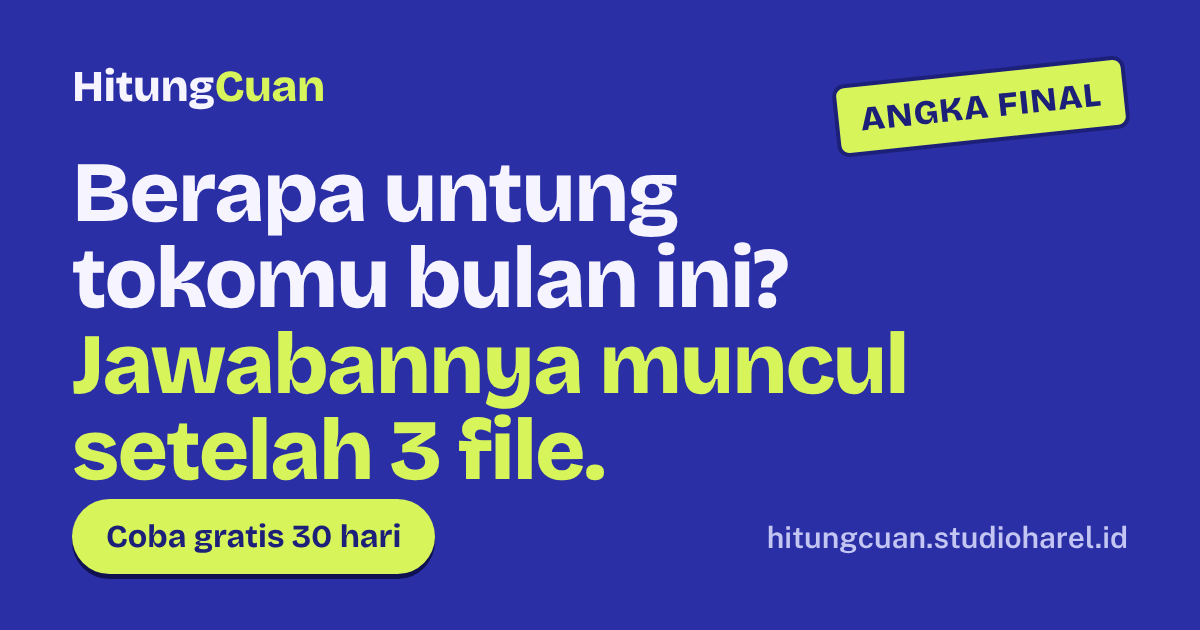
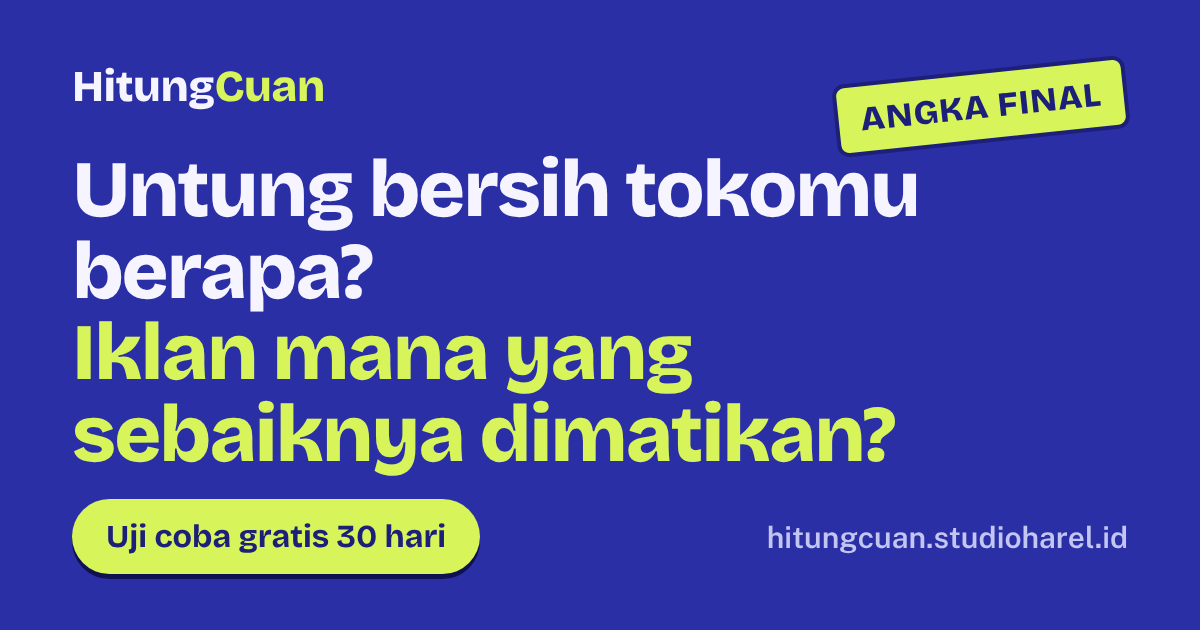
Rewrite landing copy for trial-via-WhatsApp clarity
Hero now states benefit and audience up front, uses a specific
"Minta uji coba gratis lewat WhatsApp" CTA, and explains that accounts are
created manually by an admin who replies within 1x24 hours. Merge
"how it works" and "how to start" into one 4-step flow (chat, account,
download, upload), dedupe the pricing steps, lead pricing with the 30-day
trial, rewrite the closing CTA, WhatsApp starter messages, simulator CTA
label, meta tags and OG image. Privacy micro-line now matches the detailed
claim already on the page. No new claims, stats or guarantees.

Claude-Session: https://claude.ai/code/session_01Tm7fB4RFDTvqmVeSX5iv5R

Changed region(s): [[0.0617, 0.2413, 0.7708, 0.9349]]

diff --git a/src/components/Pricing.tsx b/src/components/Pricing.tsx
@@ -2,54 +2,39 @@ import { PRICE_MONTHLY, PRICE_YEARLY, REPLY_PROMISE, TRIAL_DAYS } from '../confi
 import { rp } from '../lib/format'
 import { CheckIcon, Cta, H2, Section } from './ui'
 
-const STEPS = [
-  { t: 'Chat WhatsApp', d: 'Ceritakan tokomu dan tanya apa saja.' },
-  { t: 'Akun dibuatkan', d: 'Admin membuat akunmu secara manual. Belum ada daftar mandiri.' },
-  { t: 'Upload bulan pertama', d: 'Ikuti panduan di aplikasi, lalu baca hasilnya.' },
-]
-
 const INCLUDED = [
-  `Coba gratis ${TRIAL_DAYS} hari, tanpa kartu kredit`,
-  'Untuk 1 toko Shopee',
-  'Update kalau format file Shopee berubah',
-  'Data tiap toko terpisah',
+  'Untuk 1 toko Shopee. Punya lebih dari satu toko? Tanyakan ke admin.',
+  'Pembaruan kalau format file Shopee berubah sudah termasuk.',
+  'Data tiap toko terpisah.',
 ]
 
+/*
+ * TODO (isi sebelum tayang): satu kalimat tentang akhir uji coba, mis. apakah ditagih atau akun
+ * diminta diperpanjang lewat admin. Sengaja tidak ditulis di sini karena belum ada keputusannya.
+ */
 export function Pricing() {
   const saving = PRICE_MONTHLY * 12 - PRICE_YEARLY
   return (
     <Section tone="deep" id="harga" labelledby="harga-judul">
-      <H2 id="harga-judul">Harga dan cara mulai</H2>
+      <H2 id="harga-judul">Harga dan uji coba gratis</H2>
       <div className="mt-10 grid items-start gap-10 lg:grid-cols-[1fr_1fr] lg:gap-14">
-        <ol className="grid gap-6">
-          {STEPS.map((s, i) => (
-            <li key={s.t} data-reveal className="flex gap-4" style={{ transitionDelay: `${i * 100}ms` }}>
-              <span
-                aria-hidden="true"
-                className="grid size-11 shrink-0 place-items-center rounded-full bg-lime font-display text-xl font-extrabold text-field-deep"
-              >
-                {i + 1}
-              </span>
-              <div>
-                <h3 className="font-display text-xl font-bold">
-                  <span className="sr-only">Langkah {i + 1}: </span>
-                  {s.t}
-                </h3>
-                <p className="mt-1 text-on-field-muted">{s.d}</p>
-              </div>
-            </li>
-          ))}
-          <li className="text-on-field-muted">{REPLY_PROMISE}.</li>
-        </ol>
+        <div data-reveal>
+          <p className="font-display text-3xl leading-tight font-extrabold tracking-tight text-balance text-lime sm:text-4xl">
+            Uji coba gratis {TRIAL_DAYS} hari, tanpa kartu kredit
+          </p>
+          <p className="mt-4 max-w-md text-lg leading-relaxed text-on-field-muted">
+            Akun dibuat manual oleh admin setelah kamu chat. {REPLY_PROMISE}.
+          </p>
+        </div>
 
         <div data-reveal className="on-paper rounded-3xl bg-paper p-6 text-ink shadow-[0_6px_0_0_#12145c] sm:p-8">
-          <p className="font-semibold text-ink/70">Per toko</p>
+          <p className="font-semibold text-ink/70">Harga langganan</p>
           <p className="mt-1 flex items-baseline gap-2">
             <span className="font-display text-5xl font-extrabold tracking-tight tabular-nums">{rp(PRICE_MONTHLY)}</span>
-            <span className="text-ink/70">/ bulan</span>
+            <span className="text-ink/70">per toko per bulan</span>
           </p>
           <p className="mt-2 text-ink/80">
-            Atau {rp(PRICE_YEARLY)} per tahun, hemat {rp(saving)} dibanding 12 bulan.
+            Atau {rp(PRICE_YEARLY)} per toko per tahun. Hemat {rp(saving)} dibanding membayar bulanan selama 12 bulan.
           </p>
           <ul className="mt-6 grid gap-2.5">
             {INCLUDED.map((x) => (
@@ -59,9 +44,10 @@ export function Pricing() {
               </li>
             ))}
           </ul>
-          <Cta lokasi="harga" variant="blue" className="mt-8 w-full">
-            Chat WhatsApp, tanya cara mulai
-          </Cta>
+          <Cta lokasi="harga" variant="blue" className="mt-8 w-full" />
+          <p className="mt-3 text-center text-sm text-ink/70">
+            Akun dibuat manual oleh admin. {REPLY_PROMISE}.
+          </p>
         </div>
       </div>
     </Section>

diff --git a/src/components/Hero.tsx b/src/components/Hero.tsx
@@ -15,8 +15,8 @@ function Words({ text, start = 0 }: { text: string; start?: number }) {
   ))
 }
 
-const HEADLINE_A = 'Berapa untung tokomu bulan ini?'
-const HEADLINE_B = 'Jawabannya muncul setelah 3 file.'
+const HEADLINE_A = 'Untung bersih tokomu berapa?'
+const HEADLINE_B = 'Iklan mana yang sebaiknya dimatikan?'
 
 export function Hero() {
   return (
@@ -24,17 +24,16 @@ export function Hero() {
       <Container className="pt-10 pb-16 lg:pt-16 lg:pb-24">
         <div className="grid items-center gap-12 lg:grid-cols-[1.1fr_0.9fr] lg:gap-14">
           <div>
-            <p className="font-semibold text-lime">Untuk seller Shopee yang pasang iklan</p>
-            <h1 className="mt-3 font-display text-[2.6rem] leading-[1] font-extrabold tracking-tight text-balance sm:text-6xl lg:text-[4.25rem]">
+            <p className="font-semibold text-lime">Untuk seller Shopee yang beriklan</p>
+            <h1 className="mt-3 font-display text-[2.6rem] leading-[1] font-extrabold tracking-tight text-balance sm:text-6xl lg:text-[3.6rem]">
               <Words text={HEADLINE_A} />
               <span className="block text-lime">
                 <Words text={HEADLINE_B} start={HEADLINE_A.split(' ').length} />
               </span>
             </h1>
             <p className="mt-6 max-w-xl text-lg leading-relaxed text-on-field-muted sm:text-xl">
-              Upload export pesanan, laporan penghasilan, dan data iklan dari Seller Centre. Dapat untung bersih
-              bulanan, iklan yang harus dimatikan, dan harga minimum yang aman. Bahasa Indonesia biasa, tanpa
-              spreadsheet.
+              HitungCuan menghitung untung bersih toko Shopee dari laporan pesanan, penghasilan, dan iklan milikmu.
+              Hasilnya menunjukkan iklan yang sebaiknya dimatikan dan perkiraan harga minimum yang aman.
             </p>
 
             <div className="mt-8 flex flex-col items-stretch gap-4 sm:flex-row sm:flex-wrap sm:items-center sm:gap-x-6">
@@ -43,12 +42,18 @@ export function Hero() {
                 href="#simulator"
                 className="inline-flex min-h-11 items-center justify-center gap-2 rounded-full px-1 font-semibold text-on-field underline decoration-lime decoration-2 underline-offset-4"
               >
-                Coba hitung iklanmu dulu (30 detik)
+                Hitung satu iklanmu dulu di sini, belum perlu chat
                 <ArrowDownIcon />
               </a>
             </div>
-            <p className="mt-4 text-sm font-semibold text-on-field">Coba gratis 30 hari. Tanpa kartu kredit.</p>
-            <p className="mt-1 text-sm text-on-field-muted">Data pembeli tidak pernah dibaca · Bukan produk resmi Shopee</p>
+            <p className="mt-4 text-sm font-semibold text-on-field">Uji coba gratis 30 hari, tanpa kartu kredit.</p>
+            <p className="mt-1 text-sm text-on-field">
+              Akun dibuatkan admin secara manual setelah kamu chat. Admin membalas maksimal 1×24 jam.
+            </p>
+            <p className="mt-2 max-w-xl text-sm text-on-field-muted">
+              Saat ini hanya untuk Shopee · Bukan produk resmi Shopee · Nama, alamat, dan nomor HP pembeli tidak
+              pernah dibaca atau disimpan.
+            </p>
           </div>
 
           <StoryCard />

diff --git a/src/components/HowItWorks.tsx b/src/components/HowItWorks.tsx
@@ -5,9 +5,10 @@ import { prefersReducedMotion, useAnimatedNumber, useInViewOnce } from '../lib/h
 import { CheckIcon, ExampleTag, FileIcon, H2, ReplayIcon, Section, Sticker, vars } from './ui'
 
 const STEPS = [
-  { t: 'Download 3 file dari Seller Centre', d: 'Pesanan (.xlsx), penghasilan (.pdf), dan iklan (.csv).' },
-  { t: 'Upload ke HitungCuan', d: 'File dibaca di browser. Data pembeli diabaikan.' },
-  { t: 'Baca ceritanya', d: 'Untung atau rugi, iklan yang harus dimatikan, dan harga yang aman.' },
+  { t: 'Chat admin lewat WhatsApp', d: 'Minta uji coba gratis 30 hari. Admin membalas maksimal 1×24 jam.' },
+  { t: 'Akun dibuatkan admin', d: 'Pendaftaran belum mandiri, jadi akun tokomu dibuat manual.' },
+  { t: 'Unduh 3 laporan dari Seller Centre', d: 'Pesanan (.xlsx), penghasilan (.pdf), dan iklan (.csv).' },
+  { t: 'Upload, lalu baca hasilnya', d: 'Untung atau rugi bulan itu, iklan yang sebaiknya dimatikan, dan harga yang aman.' },
 ]
 
 /*
@@ -36,7 +37,7 @@ export function HowItWorks() {
     <Section tone="deep" id="cara-kerja" labelledby="cara-kerja-judul">
       <div className="grid gap-12 lg:grid-cols-[0.85fr_1.15fr] lg:gap-14">
         <div>
-          <H2 id="cara-kerja-judul">3 file jadi 1 jawaban.</H2>
+          <H2 id="cara-kerja-judul">Dari chat sampai hasil pertama</H2>
           <ol className="mt-8 grid gap-6">
             {STEPS.map((s, i) => (
               <li key={s.t} data-reveal className="flex gap-4" style={vars({ transitionDelay: `${i * 100}ms` })}>
@@ -57,7 +58,7 @@ export function HowItWorks() {
             ))}
           </ol>
           <p className="mt-8 border-l-4 border-lime pl-4 text-on-field-muted">
-            Paling nyaman dipakai di laptop karena file diunduh dari Seller Centre. Hasilnya bisa dilihat dari HP.
+            Upload paling nyaman lewat laptop. Hasilnya bisa dilihat dari HP.
           </p>
         </div>
 

diff --git a/src/components/Features.tsx b/src/components/Features.tsx
@@ -6,15 +6,15 @@ import { CheckIcon, ExampleTag, H2, Section, Sticker, vars } from './ui'
 export function Features() {
   return (
     <Section id="fitur" labelledby="fitur-judul">
-      <H2 id="fitur-judul">Yang kamu dapat</H2>
+      <H2 id="fitur-judul">Hasil yang kamu dapat</H2>
       <div className="mt-14 grid gap-20 lg:gap-28">
-        <Row title="Untung bersih bulan ini, dengan hitungannya." body="Rekap bulanan menunjukkan untung bersih dari uang yang benar-benar cair, lengkap dengan hitungan masuk, modal, dan biaya. Statusnya jelas: Angka final, atau Belum lengkap dengan apa yang masih kurang.">
+        <Row title="Untung bersih bulan ini, lengkap dengan hitungannya." body="Lihat untung bersih dari uang yang benar-benar cair, dengan rincian uang masuk, modal, dan biaya. Tiap angka diberi status: Angka final, atau Belum lengkap beserta data yang masih kurang.">
           <NotaMock />
         </Row>
-        <Row reverse title="Mana iklan yang harus dimatikan." body="Tiap produk dapat putusan sendiri: Hero, Aman, ROAS terlalu kecil, atau Takedown. ROAS yang dipakai sudah tanpa pesanan batal, jadi ROAS nyata.">
+        <Row reverse title="Iklan mana yang sebaiknya dimatikan." body="Tiap produk dapat satu putusan: Hero, Aman, ROAS terlalu kecil, atau Takedown (matikan iklannya). ROAS-nya sudah dihitung tanpa pesanan yang batal.">
           <AdsMock />
         </Row>
-        <Row title="Harga berapa supaya iklan tidak rugi." body="Sebelum mulai jualan, simulasikan harga: harga minimum yang aman dan target ROAS yang diisi di Shopee.">
+        <Row title="Perkiraan harga minimum yang aman." body="Simulasikan harga jual sebelum mulai berjualan. Hasilnya perkiraan dari angka dan persen admin yang kamu isi.">
           <PriceMock />
         </Row>
       </div>

diff --git a/index.html b/index.html
@@ -6,7 +6,7 @@
     <title>HitungCuan — Hitung untung bersih toko Shopee-mu</title>
     <meta
       name="description"
-      content="Hitung untung bersih toko Shopee dari file asli Seller Centre. Tahu iklan Shopee mana yang rugi dan di ROAS berapa iklan balik modal. Coba gratis 30 hari, tanpa kartu kredit."
+      content="Hitung untung bersih toko Shopee dari laporan Seller Centre. Tahu iklan Shopee mana yang sebaiknya dimatikan dan di ROAS berapa iklan balik modal. Uji coba gratis 30 hari lewat WhatsApp, tanpa kartu kredit."
     />
     <link rel="canonical" href="https://hitungcuan.studioharel.id/" />
     <meta name="theme-color" content="#2b2fa6" />
@@ -19,12 +19,12 @@
     <meta property="og:title" content="HitungCuan — Hitung untung bersih toko Shopee-mu" />
     <meta
       property="og:description"
-      content="Upload 3 file dari Shopee, dapat satu jawaban: toko kamu untung atau rugi bulan ini, dan iklan mana yang harus dimatikan."
+      content="Hitung untung bersih toko Shopee dari laporan pesanan, penghasilan, dan iklan. Minta uji coba gratis 30 hari lewat WhatsApp."
     />
     <meta property="og:image" content="https://hitungcuan.studioharel.id/og.png" />
     <meta property="og:image:width" content="1200" />
     <meta property="og:image:height" content="630" />
-    <meta property="og:image:alt" content="HitungCuan: Berapa untung tokomu bulan ini? Jawabannya muncul setelah 3 file." />
+    <meta property="og:image:alt" content="HitungCuan: Untung bersih tokomu berapa? Iklan mana yang sebaiknya dimatikan?" />
     <meta name="twitter:card" content="summary_large_image" />
     <!-- Konten disembunyikan untuk animasi hanya kalau JavaScript jalan (lihat index.css). -->
     <script>document.documentElement.classList.add("js")</script>

diff --git a/src/lib/whatsapp.ts b/src/lib/whatsapp.ts
@@ -15,13 +15,13 @@ const withCode = (lines: string[], source: string) => [...lines, `Kode: HC-${sou
 
 export function generalMessage(source: string): string {
   return withCode(
-    ['Halo, saya seller Shopee dan tertarik mencoba HitungCuan untuk toko saya. Bisa dijelaskan cara mulai dan harganya?'],
+    ['Halo admin HitungCuan, saya seller Shopee dan mau minta uji coba gratis 30 hari untuk toko saya. Mohon info langkah selanjutnya.'],
     source,
   )
 }
 
 export function multiStoreMessage(source: string): string {
-  return withCode(['Halo, saya punya lebih dari satu toko Shopee dan mau tanya soal HitungCuan.'], source)
+  return withCode(['Halo admin HitungCuan, saya punya lebih dari satu toko Shopee dan mau tanya soal HitungCuan.'], source)
 }
 
 export function simulatorMessage(
@@ -30,7 +30,7 @@ export function simulatorMessage(
 ): string {
   return withCode(
     [
-      `Halo, saya coba simulasi di HitungCuan: modal Rp${p.hpp}, harga Rp${p.harga}, ROAS Shopee ${p.roas} → hasilnya "${p.verdict}". Saya mau coba HitungCuan untuk toko saya.`,
+      `Halo admin HitungCuan, saya sudah coba simulator di halaman kalian: modal Rp${p.hpp}, harga Rp${p.harga}, ROAS Shopee ${p.roas}, hasilnya "${p.verdict}". Saya mau minta uji coba gratis 30 hari untuk toko saya.`,
     ],
     source,
   )

diff --git a/src/components/Simulator.tsx b/src/components/Simulator.tsx
@@ -57,7 +57,7 @@ export function Simulator() {
       <H2 id="simulator-judul">Iklan kamu rugi atau untung?</H2>
       <p className="mt-4 max-w-2xl text-lg text-on-field-muted">
         Isi tiga angka produkmu. Hitungannya memakai rumus yang sama dengan aplikasi, dijalankan di browser ini: tidak
-        ada yang dikirim atau disimpan.
+        ada yang dikirim atau disimpan. Belum perlu chat.
       </p>
 
       <div className="on-paper mt-10 grid gap-10 rounded-3xl bg-paper p-5 text-ink shadow-[0_6px_0_0_#12145c] sm:p-8 lg:grid-cols-[0.95fr_1.05fr] lg:gap-12">
@@ -347,10 +347,10 @@ function Result({
             )
           }
         >
-          Cek semua produk tokomu
+          Minta uji coba untuk semua produkmu
         </Cta>
         <p className="mt-3 text-sm text-ink/70">
-          Angkamu hanya ikut terkirim kalau kamu sendiri menekan tombol ini dan mengirim pesannya di WhatsApp.
+          Membuka WhatsApp dengan hasil simulasimu sudah terisi di pesan. Angkamu hanya terkirim kalau kamu menekan kirim.
         </p>
       </div>
     </div>

diff --git a/src/components/Problems.tsx b/src/components/Problems.tsx
@@ -3,15 +3,15 @@ import { Section } from './ui'
 const PROBLEMS = [
   {
     title: 'ROAS di Shopee kelihatan bagus, tapi saldo tidak bertambah.',
-    body: 'Shopee menghitung juga pesanan yang kemudian batal, dan ROAS "bagus" tergantung untung per barang.',
+    body: 'ROAS di Shopee ikut menghitung pesanan yang akhirnya batal. ROAS yang kelihatan bagus juga bisa saja belum untung, tergantung untung per barangmu.',
   },
   {
-    title: 'Penghasilan di Seller Centre belum mengurangi modal, iklan, dan packaging-mu.',
-    body: 'Itu angka kotor. Untung sebenarnya baru ketemu setelah semuanya dikurangkan.',
+    title: 'Penghasilan di Seller Centre belum dikurangi modal, biaya iklan, dan packaging.',
+    body: 'Itu belum untung bersih. Untung baru ketemu setelah semuanya dikurangkan.',
   },
   {
     title: 'Tiap awal bulan, sore habis untuk spreadsheet.',
-    body: 'Dan ujungnya tetap tidak yakin angkanya cocok dengan saldo.',
+    body: 'Rekap manual memakan waktu, dan hasilnya bisa saja belum cocok dengan saldo.',
   },
 ]
 

diff --git a/src/components/Closing.tsx b/src/components/Closing.tsx
@@ -10,12 +10,15 @@ export function Closing() {
           id="penutup"
           className="max-w-3xl font-display text-4xl leading-[1.02] font-extrabold tracking-tight text-balance sm:text-6xl"
         >
-          Mulai dari satu bulan data.
+          Coba gratis 30 hari untuk tokomu.
         </h2>
+        <p className="mt-5 max-w-xl text-lg font-semibold">
+          Chat admin lewat WhatsApp. Akun tokomu dibuatkan secara manual, dan {REPLY_PROMISE.charAt(0).toLowerCase()}
+          {REPLY_PROMISE.slice(1)}.
+        </p>
         <div className="mt-8">
           <Cta lokasi="penutup" variant="blue" />
-          <p className="mt-4 font-semibold">{REPLY_PROMISE}. Coba gratis 30 hari, tanpa kartu kredit.</p>
-          <p className="mt-1 text-sm">Data pembeli tidak pernah dibaca · Bukan produk resmi Shopee</p>
+          <p className="mt-4 text-sm">Tanpa kartu kredit · Saat ini hanya untuk Shopee · Bukan produk resmi Shopee</p>
         </div>
       </Container>
     </section>

diff --git a/src/components/Bars.tsx b/src/components/Bars.tsx
@@ -10,7 +10,7 @@ export function TopBar() {
           Hitung<span className="text-lime">Cuan</span>
         </a>
         <Cta lokasi="bar_atas" size="sm">
-          Chat WhatsApp
+          Minta uji coba
         </Cta>
       </Container>
     </div>
@@ -37,7 +37,7 @@ export function BottomBar() {
       }`}
     >
       <Cta lokasi="bar_bawah" className="w-full">
-        Chat WhatsApp, tanya cara mulai
+        Minta uji coba gratis
       </Cta>
     </div>
   )

diff --git a/src/components/Faq.tsx b/src/components/Faq.tsx
@@ -39,7 +39,7 @@ export function Faq() {
         <>
           Toko dipilih sekali di bar atas dan berlaku untuk semua halaman. Satu langganan untuk 1 toko; kalau punya
           lebih dari satu,{' '}
-          <WaLink message={multiStoreMessage}>chat kami lewat WhatsApp</WaLink>.
+          <WaLink message={multiStoreMessage}>tanyakan ke admin lewat WhatsApp</WaLink>.
         </>
       ),
     },

diff --git a/src/config.ts b/src/config.ts
@@ -16,4 +16,4 @@ export const PRICE_YEARLY = 499000
 export const TRIAL_DAYS = 30
 
 /** Janji waktu balas. Tulis hanya yang bisa ditepati. */
-export const REPLY_PROMISE = 'Dibalas dalam 1x24 jam'
+export const REPLY_PROMISE = 'Admin membalas maksimal 1×24 jam'
